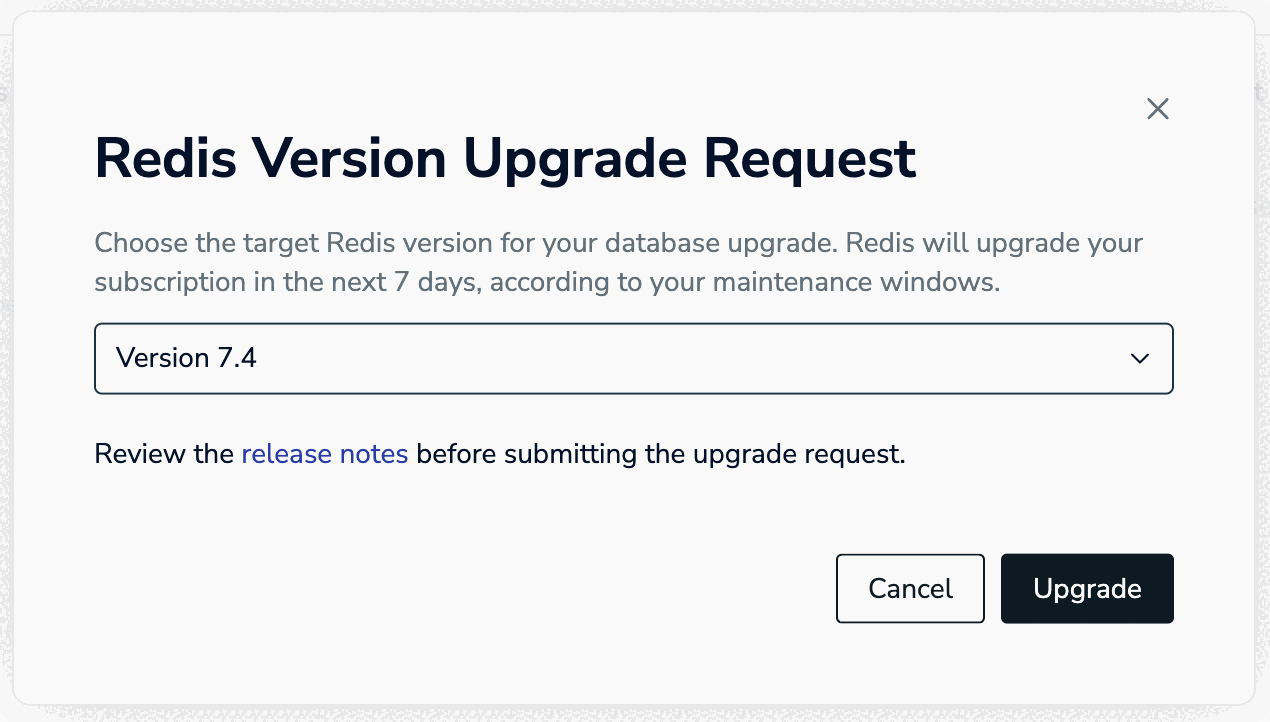
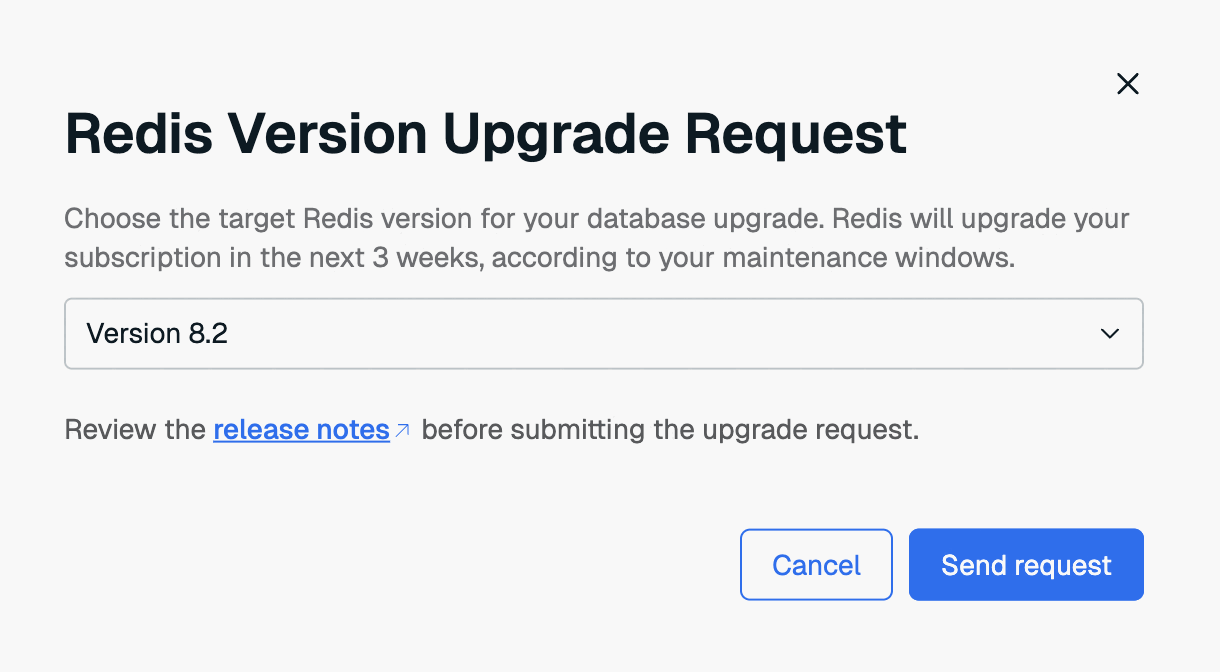
RC: Active-Active upgrade

diff --git a/content/operate/rc/databases/version-management/upgrade-version.md b/content/operate/rc/databases/version-management/upgrade-version.md
@@ -32,27 +32,47 @@ Please keep in mind the following before upgrading your database version:
 
 ## Upgrade database
 
-To upgrade a Redis Cloud database: 
+{{< multitabs id="upgrade-database" 
+tab1="Single-region database"
+tab2="Active-Active database" >}}
+
+To upgrade a single-region Redis Cloud database: 
 
 1. Choose your database from the **Databases** list to open your database page. Select **More actions > Version upgrade**.
 
-    {{<image filename="images/rc/databases-more-actions-menu.png" alt="The More Actions menu on the Database page." width=40% >}}
+    <img src="../../../../../static/images/rc/databases-more-actions-menu.png" alt="The More Actions menu on the Database page." width=40% >
     
     You can also select **More actions > Version upgrade** from the database list.
 
 1. Select the target version from the **Select version** list.
 
-    {{<image filename="images/rc/database-version-upgrade.png" alt="The Redis version upgrade screen." width=80% >}}
+    <img src="../../../../../static/images/rc/database-version-upgrade.png" alt="The Redis version upgrade screen." width=80% >
 
     If your database has not been backed up before, we recommend that you back up your database. Select **Go to backup** to go to the [backup settings]({{< relref "/operate/rc/databases/back-up-data" >}}).
 
 1. Select **Upgrade Now** to start the upgrade.
 
-    {{<image filename="images/rc/button-upgrade-now.png" alt="The upgrade button." width=100px >}}
+    <img src="../../../../../static/images/rc/button-upgrade-now.png" alt="The upgrade button." width=100px >
 
 The database will start upgrading to the selected version immediately. The upgrade may take a few minutes. 
 
 You can continue to use the Redis Cloud console for other tasks during the upgrade.
+
+-tab-sep-
+
+To request to upgrade all databases in an [Active-Active]({{< relref "/operate/rc/databases/active-active" >}}) subscription:
+
+1. Choose your Active-Active subscription from the **Subscriptions** list to open your subscription page. Select **Version upgrade**.
+
+    <img src="../../../../../static/images/rc/button-version-upgrade.png" width=150px alt="Version upgrade button." >
+
+1. Select the version to upgrade your databases from the list and select **Upgrade** to submit the upgrade request.
+
+    <img src="../../../../../static/images/rc/version-upgrade-request.png" width=80% alt="Version upgrade request list with version 8.2 selected." >
+
+The upgrade will start in 1-3 weeks from your request, according to your subscription's [maintenance windows]({{< relref "/operate/rc/subscriptions/maintenance/set-maintenance-windows" >}}). All databases in the subscription will be upgraded to the same version.
+
+{{< /multitabs >}}
 
 ## Manually revert upgrade
 

diff --git a/content/operate/rc/changelog/2024/november-2024.md b/content/operate/rc/changelog/2024/november-2024.md
@@ -22,4 +22,14 @@ weight: 40
 
 You can now upgrade all databases in your Pro subscription from your [subscription page]({{< relref "/operate/rc/subscriptions/view-pro-subscription" >}}). 
 
-{{< embed-md "rc-version-upgrade.md" >}}
+Select **Version upgrade** to request to upgrade your subscription and databases if there is a later version available.
+
+{{<image filename="images/rc/button-version-upgrade.png" width=150px alt="Version upgrade button." >}}
+
+Select the version to upgrade your databases from the list and select **Upgrade** to submit the upgrade request.
+
+{{<image filename="images/rc/version-upgrade-request.png" width=80% alt="Version upgrade request list with version 7.4 selected." >}}
+
+The upgrade will start one week from your request, according to your subscription's [maintenance windows]({{< relref "/operate/rc/subscriptions/maintenance/set-maintenance-windows" >}}). 
+
+Review the [7.2 breaking changes]({{< relref "/operate/rc/changelog/2023/june-2023#redis-72-breaking-changes" >}}) or [7.4 breaking changes]({{< relref "/operate/rc/changelog/2024/july-2024#redis-74-breaking-changes" >}}) before you request to upgrade.
